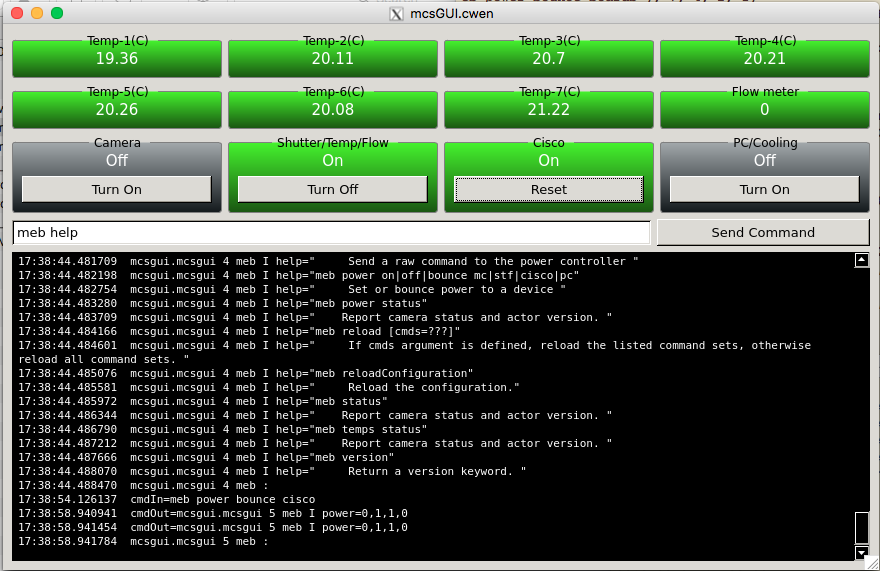
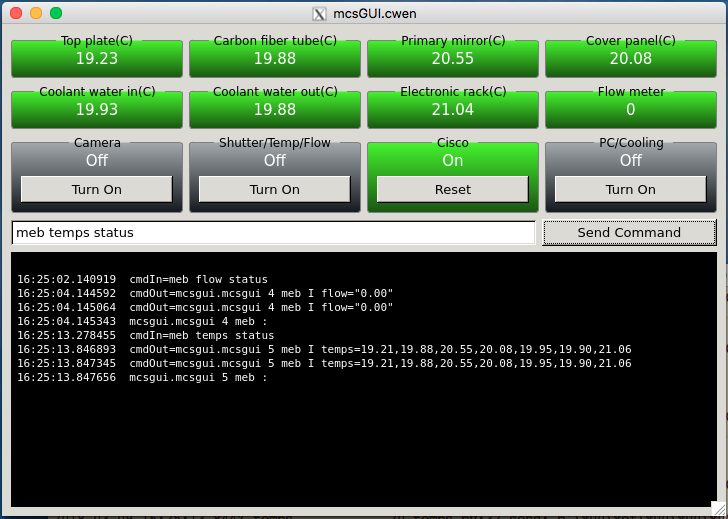
Add label for temperature sensors

diff --git a/python/mcsGUI/mainwindow.py b/python/mcsGUI/mainwindow.py
@@ -37,13 +37,13 @@ class McsGUI(QWidget):
         self.windowLayout = QHBoxLayout()
         self.labelLayout = QGridLayout()
 
-        self.labelLayout.addWidget(ValueGB('Temp-1(C) ', self.actor.models['meb'], 'temps', 0, '{:g}'), 0, 0)
-        self.labelLayout.addWidget(ValueGB('Temp-2(C) ', self.actor.models['meb'], 'temps', 1, '{:g}'), 0, 1)
-        self.labelLayout.addWidget(ValueGB('Temp-3(C) ', self.actor.models['meb'], 'temps', 2, '{:g}'), 0, 2)
-        self.labelLayout.addWidget(ValueGB('Temp-4(C) ', self.actor.models['meb'], 'temps', 3, '{:g}'), 0, 3)
-        self.labelLayout.addWidget(ValueGB('Temp-5(C) ', self.actor.models['meb'], 'temps', 4, '{:g}'), 1, 0)
-        self.labelLayout.addWidget(ValueGB('Temp-6(C) ', self.actor.models['meb'], 'temps', 5, '{:g}'), 1, 1)
-        self.labelLayout.addWidget(ValueGB('Temp-7(C) ', self.actor.models['meb'], 'temps', 6, '{:g}'), 1, 2)
+        self.labelLayout.addWidget(ValueGB('Top plate(C) ', self.actor.models['meb'], 'temps', 0, '{:g}'), 0, 0)
+        self.labelLayout.addWidget(ValueGB('Carbon fiber tube(C) ', self.actor.models['meb'], 'temps', 1, '{:g}'), 0, 1)
+        self.labelLayout.addWidget(ValueGB('Primary mirror(C) ', self.actor.models['meb'], 'temps', 2, '{:g}'), 0, 2)
+        self.labelLayout.addWidget(ValueGB('Cover panel(C) ', self.actor.models['meb'], 'temps', 3, '{:g}'), 0, 3)
+        self.labelLayout.addWidget(ValueGB('Coolant water in(C) ', self.actor.models['meb'], 'temps', 4, '{:g}'), 1, 0)
+        self.labelLayout.addWidget(ValueGB('Coolant water out(C) ', self.actor.models['meb'], 'temps', 5, '{:g}'), 1, 1)
+        self.labelLayout.addWidget(ValueGB('Electronic rack(C) ', self.actor.models['meb'], 'temps', 6, '{:g}'), 1, 2)
         self.labelLayout.addWidget(ValueGB('Flow meter ', self.actor.models['meb'], 'flow', 0, '{:g}'), 1, 3)
         self.labelLayout.addWidget(PowerButton('Camera ', self.actor.models['meb'], 'power', 0, self.sendCommand, 'meb power on mc', 'meb power off mc'), 2, 0, 2, 1)
         self.labelLayout.addWidget(PowerButton('Shutter/Temp/Flow ', self.actor.models['meb'], 'power', 1, self.sendCommand, 'meb power on stf', 'meb power off stf'), 2, 1, 2, 1)
